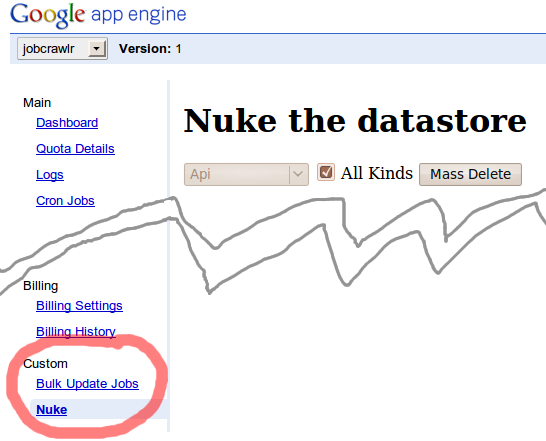
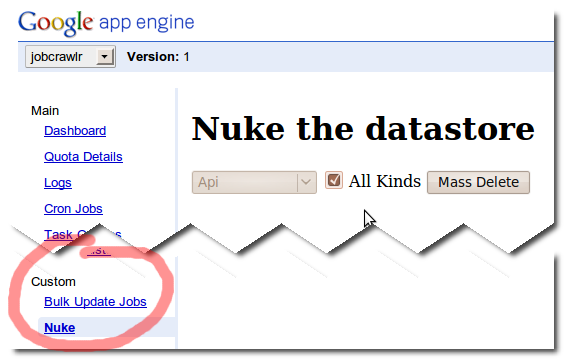
img tear

diff --git a/graphics/scripts/tear.py b/graphics/scripts/tear.py
@@ -1,0 +1,91 @@
+#!/usr/bin/env python
+
+'''Splits and reassembles the image without the middle.'''
+
+# ==============================================================================
+def make_serrations_points(tooth_amplitude, tooth_count):
+	tooth_serrations = []
+	tooth_spacing = original_width/tooth_count
+	for i in range(tooth_count):
+		peak = (i*tooth_spacing, -tooth_amplitude/2)
+		tooth_serrations.append(peak)
+		trough = (int((i + 0.5)*tooth_spacing), tooth_amplitude/2)
+		tooth_serrations.append(trough)
+
+	# Add one last peak on the right edge:
+	last_peak = (original_width - 1, -tooth_amplitude/2)
+	tooth_serrations.append(last_peak)
+	return tooth_serrations
+
+# ==============================================================================
+def points_offset_vertical(points, offset):
+	return [(x, y + offset) for x, y in points]
+
+# ==============================================================================
+def make_serrations_mask(tooth_serrations, original_width, vertical_edge):
+
+	tooth_mask_polygon = tooth_serrations[:]
+	# Add upper left corner
+	tooth_mask_polygon.append( (original_width - 1, vertical_edge) )
+	# Add upper right corner
+	tooth_mask_polygon.append( (0, vertical_edge) )
+
+	alpha_mask = Image.new('L', source.size, 0)
+	alpha_mask_draw = ImageDraw.Draw(alpha_mask)
+	alpha_mask_draw.polygon(tooth_mask_polygon, fill=255)
+	
+	return alpha_mask
+
+# =============================================================================
+def ellipsize_image(source, upper_cutoff_y, lower_cutoff_y, gap_height, tooth_amplitude, tooth_count):
+
+	from PIL import Image, ImageDraw
+	from dropshadow import dropShadow
+
+	original_width, original_height = source.size
+
+	base_serrations = make_serrations_points(tooth_amplitude, tooth_count)
+	upper_tooth_serrations = points_offset_vertical(base_serrations, upper_cutoff_y)
+	lower_tooth_serrations = points_offset_vertical(base_serrations, lower_cutoff_y)
+
+
+	upper_alpha_mask = make_serrations_mask(upper_tooth_serrations, original_width, 0)
+#	upper_alpha_mask.save("upper_tooth_mask.png")
+
+	lower_alpha_mask = make_serrations_mask(lower_tooth_serrations, original_width, original_height - 1)
+#	lower_alpha_mask.save("lower_tooth_mask.png")
+
+
+	top_cropped_region = source.crop(upper_alpha_mask.getbbox())
+#	top_cropped_region.save("top.png")
+
+	bottom_cropped_region = source.crop(lower_alpha_mask.getbbox())
+#	bottom_cropped_region.save("bottom.png")
+
+
+	bottom_offset = top_cropped_region.size[1] + gap_height - tooth_amplitude
+	composited = Image.new('RGBA', (original_width, bottom_offset + bottom_cropped_region.size[1]))
+	composited.paste(top_cropped_region, (0, 0), upper_alpha_mask.crop( upper_alpha_mask.getbbox() ))
+	composited.paste(bottom_cropped_region, (0, bottom_offset), lower_alpha_mask.crop( lower_alpha_mask.getbbox() ))
+#	composited.save("foo.png")
+
+	shadowed = dropShadow(composited)
+	return shadowed
+
+# =============================================================================
+if __name__ == '__main__':
+
+	from PIL import Image, ImageDraw
+	source = Image.open("../../screenshots/nuke.png")
+
+	original_width, original_height = source.size
+	upper_cutoff_y = original_height/3
+	lower_cutoff_y = 7*original_height/8
+
+	gap_height = 25
+	tooth_amplitude = 30
+	tooth_count = 6
+
+	ellipsized = ellipsize_image(source, upper_cutoff_y, lower_cutoff_y, gap_height, tooth_amplitude, tooth_count)
+	ellipsized.save("output.png")
+

diff --git a/graphics/scripts/dropshadow.py b/graphics/scripts/dropshadow.py
@@ -1,0 +1,62 @@
+#!/usr/bin/env python
+"""
+Drop shadows with PIL.
+
+Author: Kevin Schluff
+License: Python license
+"""
+from PIL import Image, ImageFilter
+
+def dropShadow( image, offset=(5,5), background=0x00ffffff, shadow=0xFF444444, 
+                border=8, iterations=3):
+  """
+  Add a gaussian blur drop shadow to an image.  
+  
+  image       - The image to overlay on top of the shadow.
+  offset      - Offset of the shadow from the image as an (x,y) tuple.  Can be
+                positive or negative.
+  background  - Background colour behind the image.
+  shadow      - Shadow colour (darkness).
+  border      - Width of the border around the image.  This must be wide
+                enough to account for the blurring of the shadow.
+  iterations  - Number of times to apply the filter.  More iterations 
+                produce a more blurred shadow, but increase processing time.
+  """
+  
+  # Create the backdrop image -- a box in the background colour with a 
+  # shadow on it.
+  totalWidth = image.size[0] + abs(offset[0]) + 2*border
+  totalHeight = image.size[1] + abs(offset[1]) + 2*border
+  back = Image.new(image.mode, (totalWidth, totalHeight), background)
+  
+  # Place the shadow, taking into account the offset from the image
+  shadowLeft = border + max(offset[0], 0)
+  shadowTop = border + max(offset[1], 0)
+  back.paste(shadow, [shadowLeft, shadowTop, shadowLeft + image.size[0], 
+    shadowTop + image.size[1]], image )
+
+  
+  # Apply the filter to blur the edges of the shadow.  Since a small kernel
+  # is used, the filter must be applied repeatedly to get a decent blur.
+  n = 0
+  while n < iterations:
+    back = back.filter(ImageFilter.BLUR)
+    n += 1
+    
+  # Paste the input image onto the shadow backdrop  
+  imageLeft = border - min(offset[0], 0)
+  imageTop = border - min(offset[1], 0)
+  back.paste(image, (imageLeft, imageTop), image)
+  
+  return back
+  
+if __name__ == "__main__":
+  import sys
+
+  image = Image.open(sys.argv[1])
+  image.thumbnail( (200,200), Image.ANTIALIAS)
+
+  dropShadow(image).save("test1.png")
+  dropShadow(image, background=0xeeeeee, shadow=0x444444, offset=(0,5)).save("test2.png")
+   
+    
